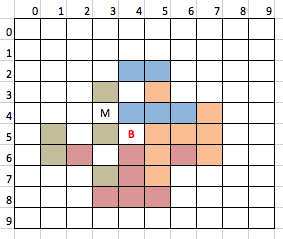
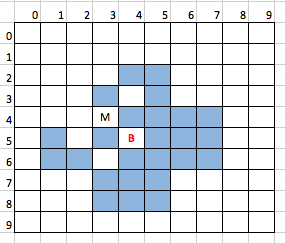
improvement after review #2

diff --git a/README.md b/README.md
@@ -22,26 +22,23 @@ One player tells the coordinates for shot, and the other give a feedback whether
 
 Human player secretly arranges a plane with the following figure on a grid with size of 10x10, let's say it an environment. You have to develop an agent that is capable to learn how to shoot the plane in this environment.
 
-![](plane1.png)
+![](plane1.png)  <img src="NEWS.png" style="height:5em"/>
 
 The human player gives a feedback with letter `H` for head shot, `B` for body shot and `M` for miss (see the figure above).
 
-Using this feedback the agent have to find the head of the plane with minimum possible shots. The agent must learn optimal technique, and be able to compete with a human player.
+Using this feedback the agent have to find the head of the plane with minimum possible shots. The agent must learn optimal technique using Machine Learning, and be able to compete with a human player. The Reinforcement Learning is recommended one, but any Machine Learning technique or combination of them are accepted.
 
 ### Metrics
 
 The agent's goal is to find the plane head with minimum possible shots.  So how many shots are required to destroy any plane? I couldn't tell exact number, but I have some reasonable metrics.
 
-In worst case the agent could find the head with 100 shots, which means it has to hit every square on the grid. But our agent has to be smarter than this.
+To measure the performance of the agent, I have chosen the average number of shots until the head is found. This will be a main factor to indicate the performance.
 
+The average number of shots will be calculated as the following.
 
-It's possible to find some part of the plane with 10 shots at maximum. Because the plane occupies 1/10 size of space on the board. Only thing is to keep correct amount of gap between shots to cover all area.
-
-Once the agent hit on the body of the plane it should be easy to guess the head. Usually 2-4 shots needed to find the head after body shot. So in total, 14 shots should be enough to destroy any plane.
-
-
-Like the chess game, we could design a certain scenario and could test the agent for this scenario.
-
+```
+  Average shot per play = totals shots / the number of play
+```
 
 ## II. Analysis
 
@@ -127,17 +124,17 @@ Here is the main parameters for RL:
 
 ### Benchmark
 
-To measure the performance, I have chosen the average number of shots until head is found. This will be a main factor to indicate the performance.
+In worst case the agent could find the head with 100 shots, which means it has to hit every square on the grid. But our agent has to be smarter than this.
 
-The average number of shots will be calculated as the following.
+It's possible to find some part of the plane with 10 shots at maximum. Because the plane occupies 1/10 size of space on the board. Only thing is to keep correct amount of gap between shots to cover all area.
 
-```
-  Average shot per play = totals shots / the number of play
-```
+Once the agent hit on the body of the plane it should be easy to guess the head. Usually 2-4 shots needed to find the head after body shot. So in total, 14 shots should be enough to destroy any plane.
 
 From my experience, it is possible to find the head of plane with 9 shots on average. So this could be a guideline value for benchmark. Some lucky human players could find the head with 5-6 shots.
 
 There are 168 plane layouts in total. So we will benchmark the agent for all these possible layouts.
+
+Also you could design a certain scenario like as the chess game and could check the actions of the agent in this scenario.
 
 
 ## III. Methodology
@@ -248,7 +245,7 @@ After every shot the agent learns using `learn()` method.
 
 This module simulates a human player and playes with the agent. It is designed to train the agent and check its performance according to the metrics.
 
-There are 168 variants of the plane. The simulator plays all these variants with the agent, and it does 200 trails for one layout. So it will be 168*200 trials in total.
+There are 168 variants of the plane. The simulator plays all these variants with the agent, and it does 500 trails for one layout. So it will be 168*500 trials in total.
 
 ### Refinement
 
@@ -260,6 +257,11 @@ Gamma was set to 2.0. So the agent is more focused on current rewards.
 
 Also I did some test on the epsilon parameter. The agent was performing poorly when epsilon is higher than 0.7, which means mostly random actions were chosen. 0.5 was the best optimal value for the epsilon parameter, also it's good for exploration.
 
+
+```
+TODO:
+Good work with the refinements, however, to meet specification in this section, a table with the results *before and after" the refinement is needed. If the results after your "refinements" are worse than the initial results, there is no problem with that, but an explanation is needed to analyze the result.
+```
 
 ## IV. Results
 
@@ -281,7 +283,7 @@ Here is the result:
 
 ### Free form visualization
 
-The shot distribution for particular layout was interesting. So I wanted to create some visualization using shot distribution after the simulation.
+The shot distribution for particular layout was interesting to me. So I wanted to create some visualization using shot distribution after every simulation.
 
 The following picture shows how the agent sees the plane layout after 100 trails.
 
@@ -291,15 +293,19 @@ A plane that South headed at (7, 7):
 
 ![viz1](viz1.png)
 
-From this visualization we could see dark blue parts are head and body squares, and lighter area is less or non-related squares with the plane.
+From this visualization we could see the colors, which represents a density of shots at that particular square. The dark blue parts are head and body squares, and lighter area is less or non-related squares to the plane.
 
-It may be a blurred vision, but somehow it shows the agent's rough understanding about that particular layout.
+It may be a blurred vision, but somehow it shows the agent's rough "understanding" about that particular layout.
+
+In the picture above you could see that the plane is headed to the South and located at square (7,7).
 
 **Sample 2:**
 
 A plane that East headed at (8, 7):
 
 ![viz2](viz2.png)
+
+ It's a plane with East head and located at square (8, 7).
 
 ### Reflection
 
